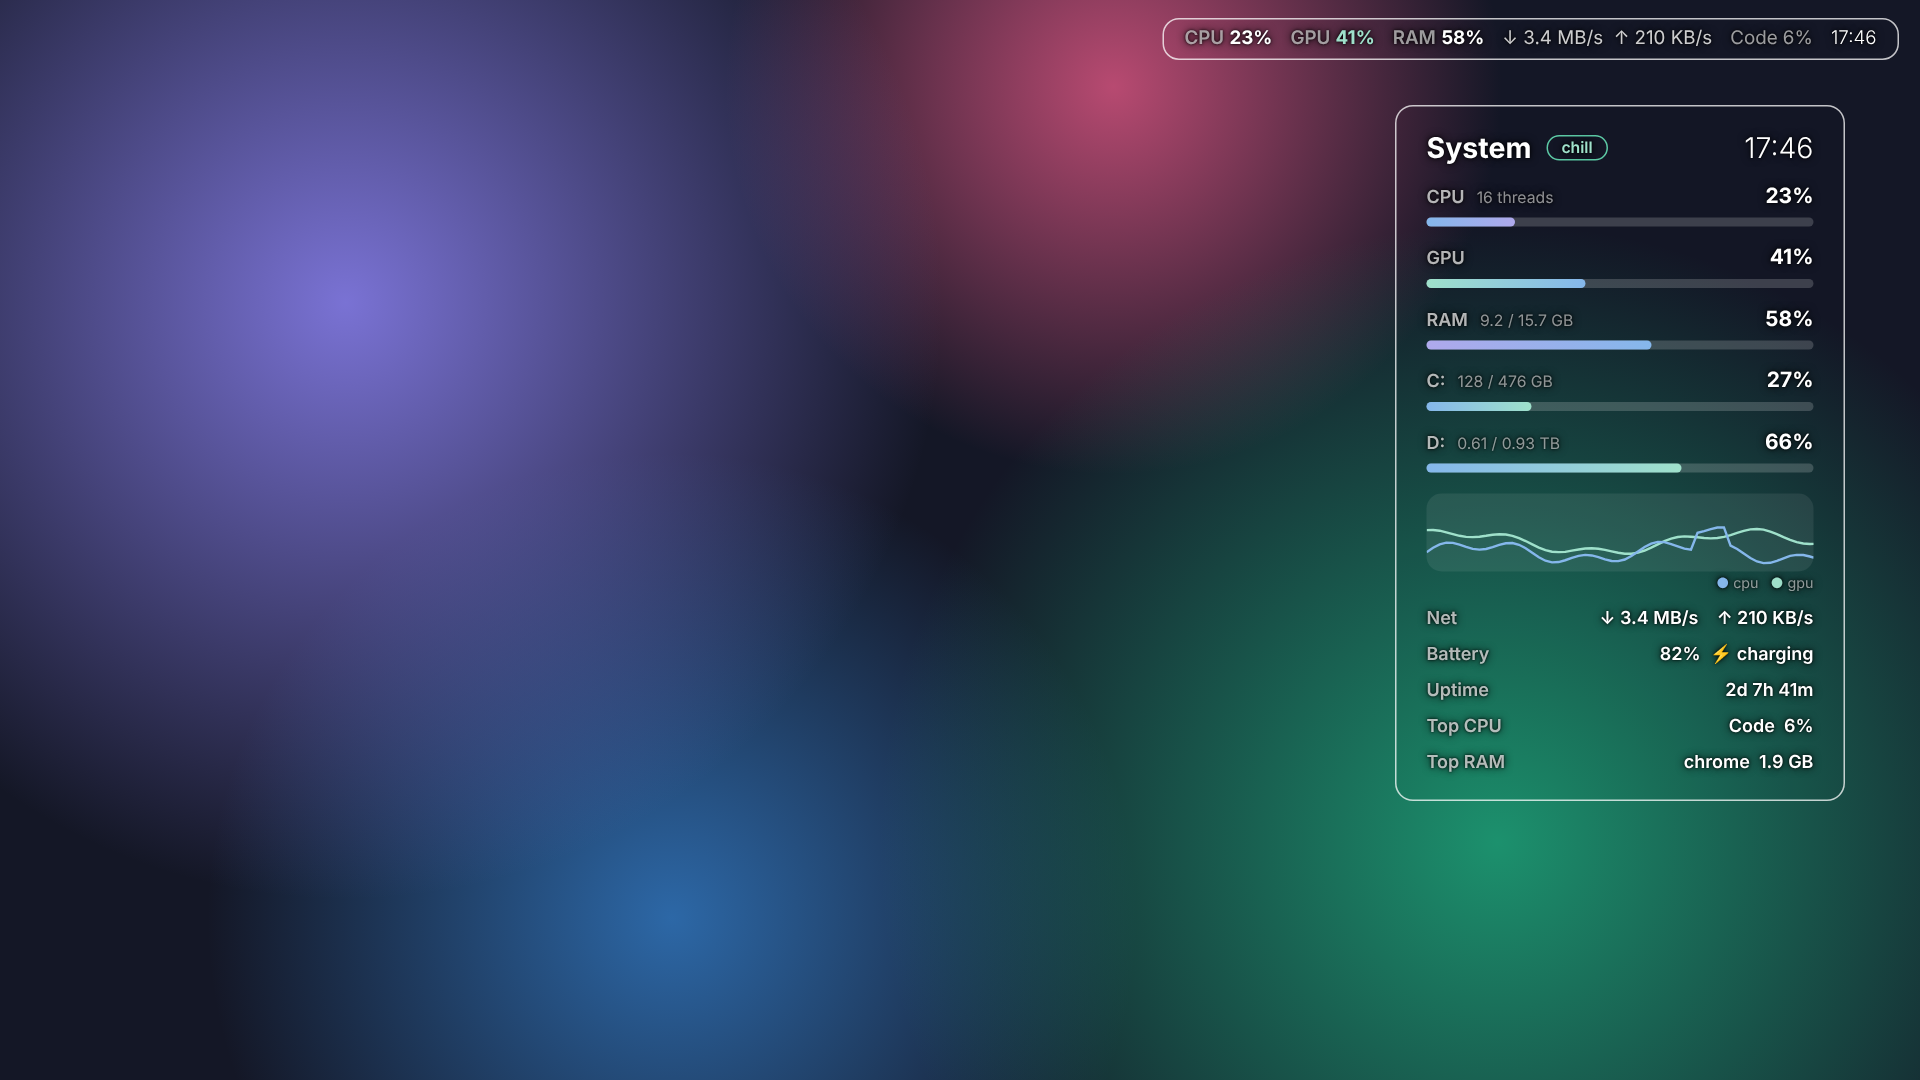
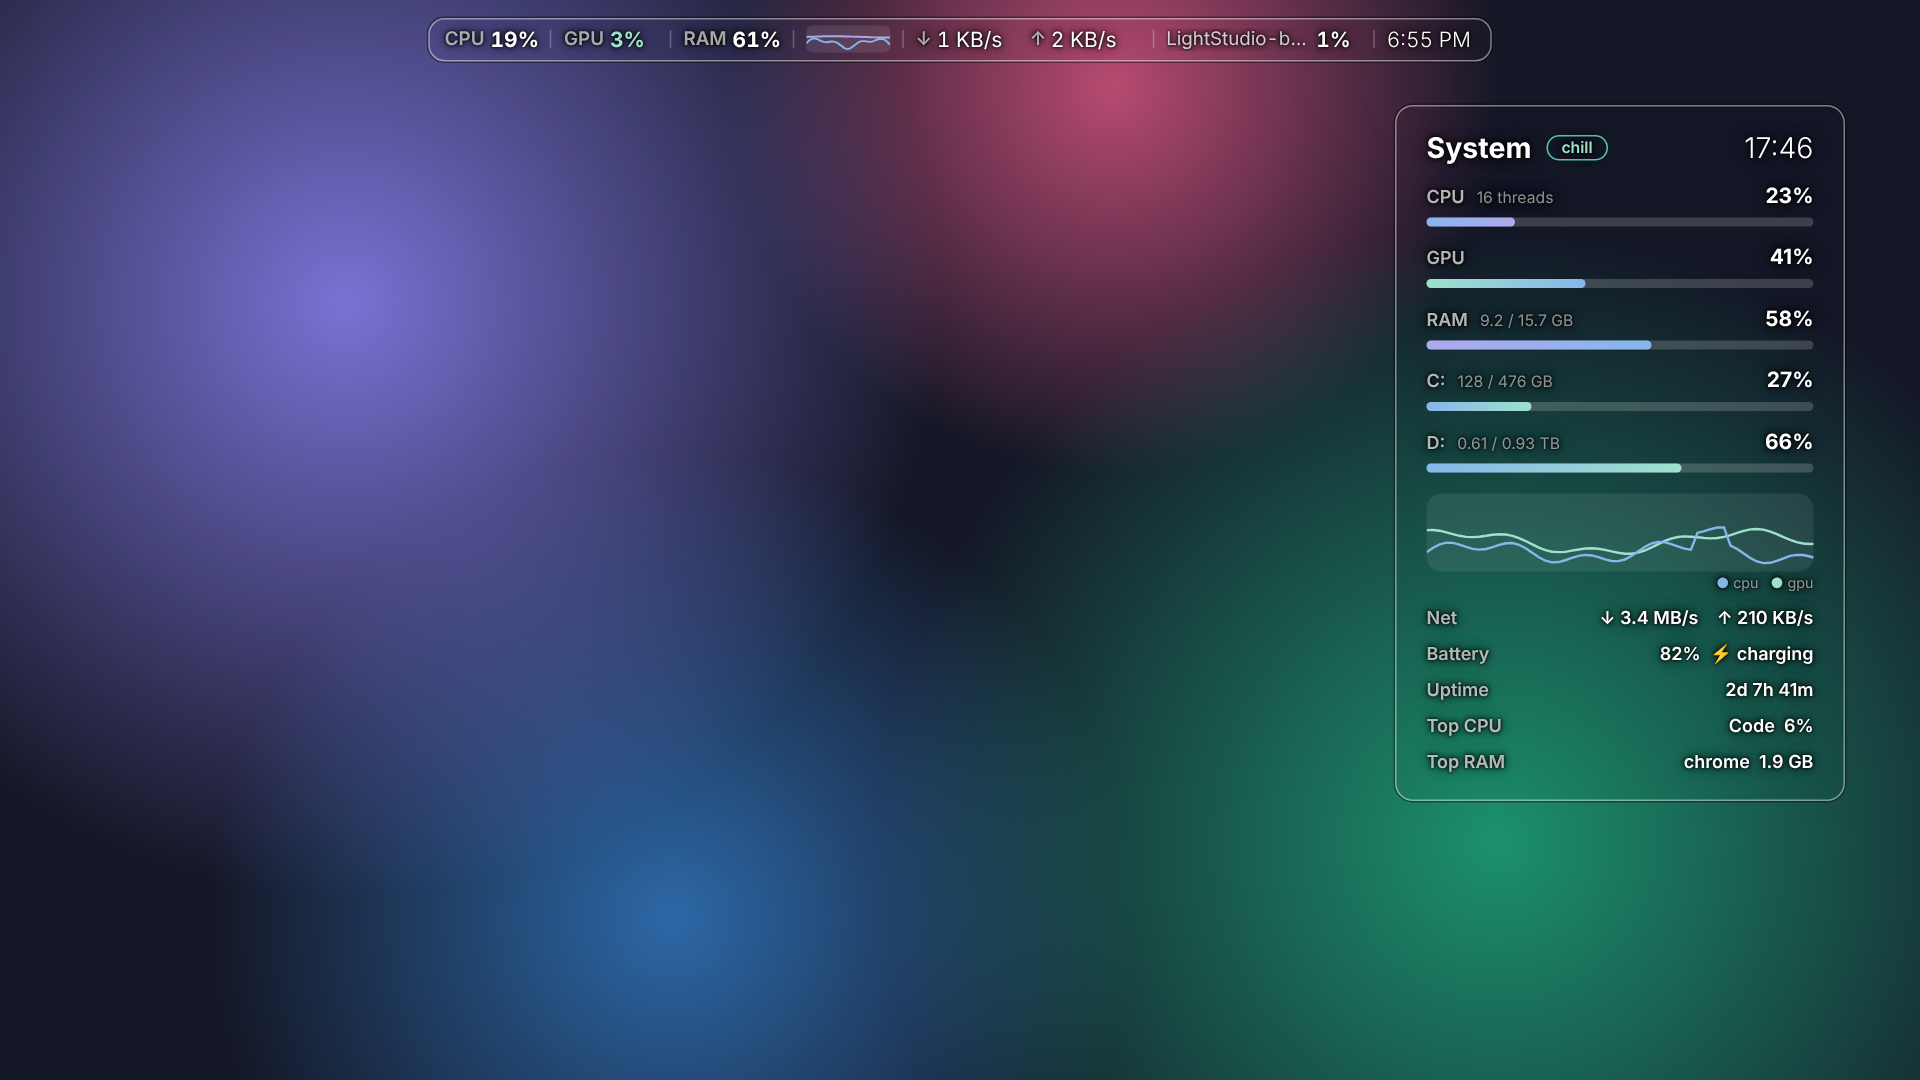
Docs: compact overlay, mini graph and light-wallpaper images for v9
Claude-Session: https://claude.ai/code/session_01RP7FEh2wzL7y17a24F9dcJ

Changed region(s): [[0.2188, 0.0, 1.0, 0.0611], [0.75, 0.7333, 0.8438, 0.7639]]

diff --git a/README.md b/README.md
@@ -96,13 +96,13 @@ powershell -NoProfile -STA -ExecutionPolicy Bypass -File .\LiquidHUD.ps1
 | Setting | What it does |
 |---|---|
 | **Show** | Tick **Big widget** and/or **Game overlay**. If both are off, press `Ctrl+Alt+S` to come back |
-| **Look** | **Outline**: text and a thin frame only (1 px, white at 45 % opacity), so you see straight through to what's behind. **Solid**: text on a fully coloured background with a frame |
+| **Look** | **Outline**: text and a thin frame only (1 px white at 45 %, with a 1 px dark ring outside it and a soft dark halo behind the text), so you see straight through to what's behind and it stays readable on light *and* dark wallpapers. **Solid**: text on a fully coloured background with a frame |
 | **Clock** | **24h** (`18:46`) or **12h** (`6:46 PM`), for both the widget and the overlay |
 | **Overlay position** | Top left, Top center, Top right, Bottom left, **Bottom center**, Bottom right, or Custom (where you last dropped it). Centered positions stay put because the bar has a fixed width |
 | **Free move** | Tick it, then drag the overlay anywhere (it gets a dashed outline). Untick it and the overlay locks in place and goes back to click-through, so it never blocks what's behind it |
 | **Disks** | Every ready fixed or removable drive is listed with its label and size. Tick the ones you want on the widget. New drives show up the next time you open Settings |
 | **Big widget shows** | Tick a metric to show it on the widget |
-| **Game overlay shows** | A separate list for the overlay: CPU, GPU, RAM, Network, Top CPU app, Top RAM app, Battery, Clock. A metric is only collected if the widget or the overlay needs it |
+| **Game overlay shows** | A separate list for the overlay: CPU, GPU, RAM, **Mini graph** (CPU + RAM sparkline), Network, Top CPU app, Top RAM app, Battery, Clock. A metric is only collected if the widget or the overlay needs it |
 | **Refresh rate** | 1 s, 2 s or 5 s. Slower uses less CPU |
 | **LiquidHUD itself is using** | Live RAM and CPU used by the widget itself |
 
@@ -114,6 +114,10 @@ Settings are saved to `%APPDATA%\LiquidHUD\settings.json`.
 ## Game overlay
 
 ![Outline overlay free-moved under the browser's address bar](docs/images/browser.png)
+
+The bar is compact: thin dividers between items, a 56×18 mini graph (blue = CPU, purple = RAM), and fixed widths so it never jumps while it's running.
+
+![Outline and Solid on a white wallpaper](docs/images/light.png)
 
 1. Press **`Ctrl+Alt+O`** to turn the overlay on.
 2. Press **`Ctrl+Alt+P`** to cycle its pinned position: top left, top center, top right, bottom left, bottom center, bottom right, custom.
@@ -220,7 +224,8 @@ These are estimates. Open **Settings** to see the live numbers on your machine.
 
 | Version | What changed | Issues |
 |---|---|---|
-| **v8** | 12h / 24h clock, **Bottom center** position, a fixed-width overlay that no longer jumps when centered, a separate metric list for the overlay, and a thinner Outline frame | #9, #10, #11, #12 |
+| **v9** | Compact overlay with dividers and a mini CPU + RAM graph. Outline now readable on white wallpapers (dark ring and text halo) | #14, #15, #16 |
+| v8 | 12h / 24h clock, **Bottom center** position, a fixed-width overlay that no longer jumps when centered, a separate metric list for the overlay, and a thinner Outline frame | #9, #10, #11, #12 |
 | v7 | Clear rendering only: Acrylic, Mica and the background sliders are removed. Added the **Outline / Solid** look and **Show** toggles for the widget and the overlay | #5, #6, #7 |
 | v6 | Every disk detected with a tick box each. Overlay can be pinned or free-moved. Faint box kept at 0 % | #2, #3, #4 |
 | v5 | Clear style with real transparency | #1 |
